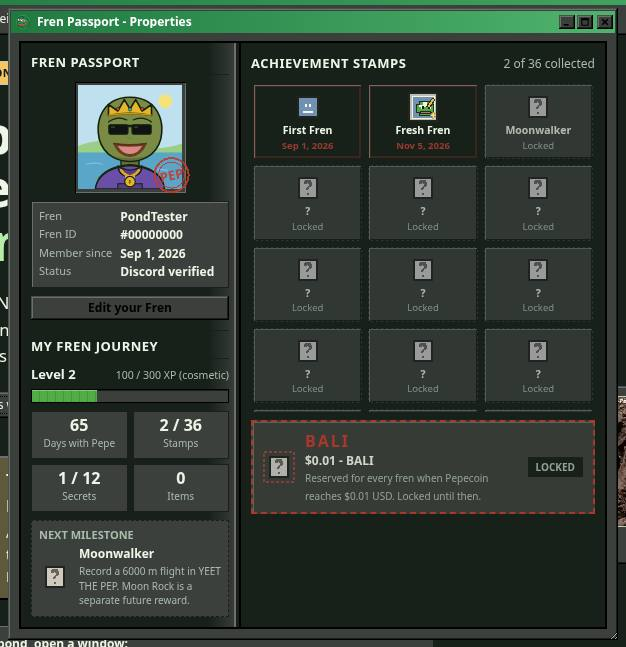
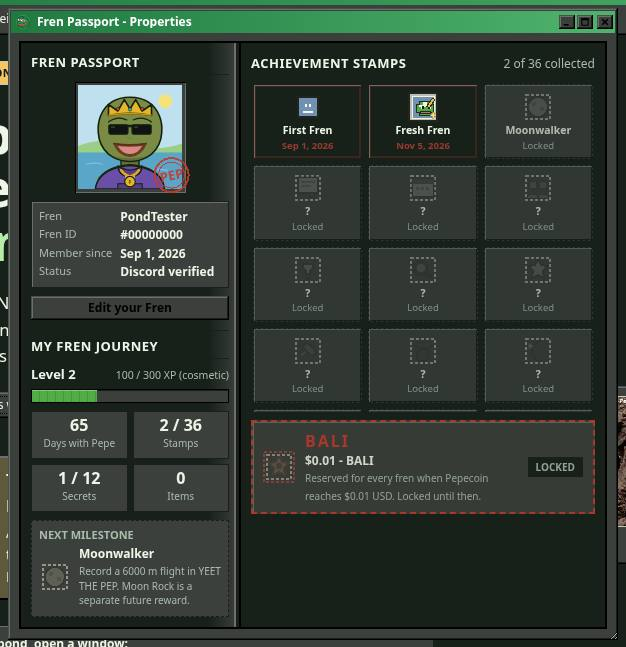
polish(passport): locked stamps show a dotted 'stamp here' slot with a faint ghost glyph
Replaces the identical '?' placeholder with a per-stamp empty-passport-page slot: a
dashed stamp frame plus a 22%-opacity preview of that stamp's own retro glyph, so the
booklet reads as 'collect these' without implying anything is earned. Server state still
alone decides earned vs locked. Cache token meme.js bumped to 20261106avatar3; passport
screenshot refreshed.

diff --git a/docs/meme/meme.js b/docs/meme/meme.js
@@ -1624,11 +1624,19 @@
     var key = PP_ICONS[id] ? id : (PP_ICON_CAT[category] || 'first_fren');
     return PP_ICONS[key];
   }
-  // Build the stamp inner markup: earned uses the category/id glyph, locked shows a retro '?' slot.
+  // Build the stamp inner markup. Earned: the full-colour retro glyph. Locked: an empty
+  // passport-page slot — a dotted stamp frame with a faint grey "pre-print" of the stamp's
+  // own glyph, so you can see what it will become without it reading as collected. This is
+  // purely cosmetic; server state alone decides earned vs locked (see A.render).
   function ppStampSvg(id, category, earned, mythic) {
-    var inner = earned ? ppStampGlyph(id, category)
-      : '<rect x="7" y="6" width="18" height="20" fill="#cfcabf" stroke="#20261e" stroke-width="2"/>'
-        + '<path d="M12 12a4 4 0 1 1 6 3c-1 1-2 1-2 3h-2c0-3 3-3 3-5a2 2 0 0 0-3-1zM15 21h2v2h-2z" fill="#6b6454"/>';
+    var inner;
+    if (earned) {
+      inner = ppStampGlyph(id, category);
+    } else {
+      // dotted "stamp here" frame + a desaturated ghost of the real glyph underneath
+      inner = '<rect x="4" y="4" width="24" height="24" fill="none" stroke="#9a9488" stroke-width="1.5" stroke-dasharray="3 2"/>'
+        + '<g opacity="0.22">' + ppStampGlyph(id, category) + '</g>';
+    }
     return '<svg xmlns="http://www.w3.org/2000/svg" width="32" height="32" viewBox="0 0 32 32" shape-rendering="crispEdges" aria-hidden="true">'
       + (mythic ? '<rect x="1" y="1" width="30" height="30" fill="none" stroke="#c43b2e" stroke-width="2" stroke-dasharray="3 2"/>' : '')
       + inner + '</svg>';

diff --git a/docs/meme/mining.html b/docs/meme/mining.html
@@ -213,7 +213,7 @@
 
 <footer class="foot"></footer>
 <script src="../prices.js?v=20261104lazy"></script>
-<script src="meme.js?v=20261106avatar2"></script>
+<script src="meme.js?v=20261106avatar3"></script>
 <script>
 (function () {
   // same arithmetic as the serious page (mining-calc.js): share of the network hashrate x blocks a day x 10,000 PEP, minus the pool fee

diff --git a/docs/meme/calculator.html b/docs/meme/calculator.html
@@ -243,7 +243,7 @@ th.plain { font: 700 0.95rem var(--f-body); text-transform: none; letter-spacing
 
 <footer class="foot"></footer>
 <script src="../prices.js?v=20261104lazy"></script>
-<script src="meme.js?v=20261106avatar2"></script>
+<script src="meme.js?v=20261106avatar3"></script>
 <script src="../live.js?v=20261012d" defer></script>
 <script>
 (function () {

diff --git a/docs/meme/price.html b/docs/meme/price.html
@@ -283,7 +283,7 @@ img.pow-logo { background: #fff; }
 
 <footer class="foot"></footer>
 <script src="../prices.js?v=20261104lazy"></script>
-<script src="meme.js?v=20261106avatar2"></script>
+<script src="meme.js?v=20261106avatar3"></script>
 <script src="../live.js?v=20261012d" defer></script>
 <script src="../price.js?v=20261031data1" defer></script>
 <script>

diff --git a/docs/meme/which-pepecoin.html b/docs/meme/which-pepecoin.html
@@ -223,7 +223,7 @@ code { font: 700 0.92em/1.3 var(--f-mono); background: var(--paper); border: 1.5
 
 <footer class="foot"></footer>
 <script src="../prices.js?v=20261104lazy"></script>
-<script src="meme.js?v=20261106avatar2"></script>
+<script src="meme.js?v=20261106avatar3"></script>
 <script>
 (function () {
   // copy buttons for the contract addresses

diff --git a/docs/meme/compare.html b/docs/meme/compare.html
@@ -267,7 +267,7 @@ code { font: 700 0.95em/1.3 var(--f-mono); background: var(--paper); border: 1.5
 
 <footer class="foot"></footer>
 <script src="../prices.js?v=20261104lazy"></script>
-<script src="meme.js?v=20261106avatar2"></script>
+<script src="meme.js?v=20261106avatar3"></script>
 <script>
 (function () {
   'use strict';

diff --git a/docs/meme/scrypt-family.html b/docs/meme/scrypt-family.html
@@ -290,6 +290,6 @@ blockquote.pull footer { font-size: 0.9rem; color: var(--muted); }
 
 <footer class="foot"></footer>
 <script src="../prices.js?v=20261104lazy"></script>
-<script src="meme.js?v=20261106avatar2"></script>
+<script src="meme.js?v=20261106avatar3"></script>
 </body>
 </html>

diff --git a/docs/meme/supply.html b/docs/meme/supply.html
@@ -279,7 +279,7 @@
 
 <footer class="foot"></footer>
 <script src="../prices.js?v=20261104lazy"></script>
-<script src="meme.js?v=20261106avatar2"></script>
+<script src="meme.js?v=20261106avatar3"></script>
 <script src="../live.js?v=20261012d" defer></script>
 <script>
 (function () {

diff --git a/docs/meme/index.html b/docs/meme/index.html
@@ -296,7 +296,7 @@
 
 <footer class="foot"></footer>
 <script src="../prices.js?v=20261104lazy"></script>
-<script src="meme.js?v=20261106avatar2"></script>
+<script src="meme.js?v=20261106avatar3"></script>
 <script>
 (function () {
   var M = window.Meme, f = M.fmt;

diff --git a/docs/meme/rich-list.html b/docs/meme/rich-list.html
@@ -132,7 +132,7 @@
 
 <footer class="foot"></footer>
 <script src="../prices.js?v=20261104lazy"></script>
-<script src="meme.js?v=20261106avatar2"></script>
+<script src="meme.js?v=20261106avatar3"></script>
 <script>
 (function () {
   var M = window.Meme, f = M.fmt;

diff --git a/docs/meme/network.html b/docs/meme/network.html
@@ -155,7 +155,7 @@
 
 <footer class="foot"></footer>
 <script src="../prices.js?v=20261104lazy"></script>
-<script src="meme.js?v=20261106avatar2"></script>
+<script src="meme.js?v=20261106avatar3"></script>
 <script>
 (function () {
   'use strict';

diff --git a/docs/meme/buy.html b/docs/meme/buy.html
@@ -132,6 +132,6 @@
 
 <footer class="foot"></footer>
 <script src="../prices.js?v=20261104lazy"></script>
-<script src="meme.js?v=20261106avatar2"></script>
+<script src="meme.js?v=20261106avatar3"></script>
 </body>
 </html>
